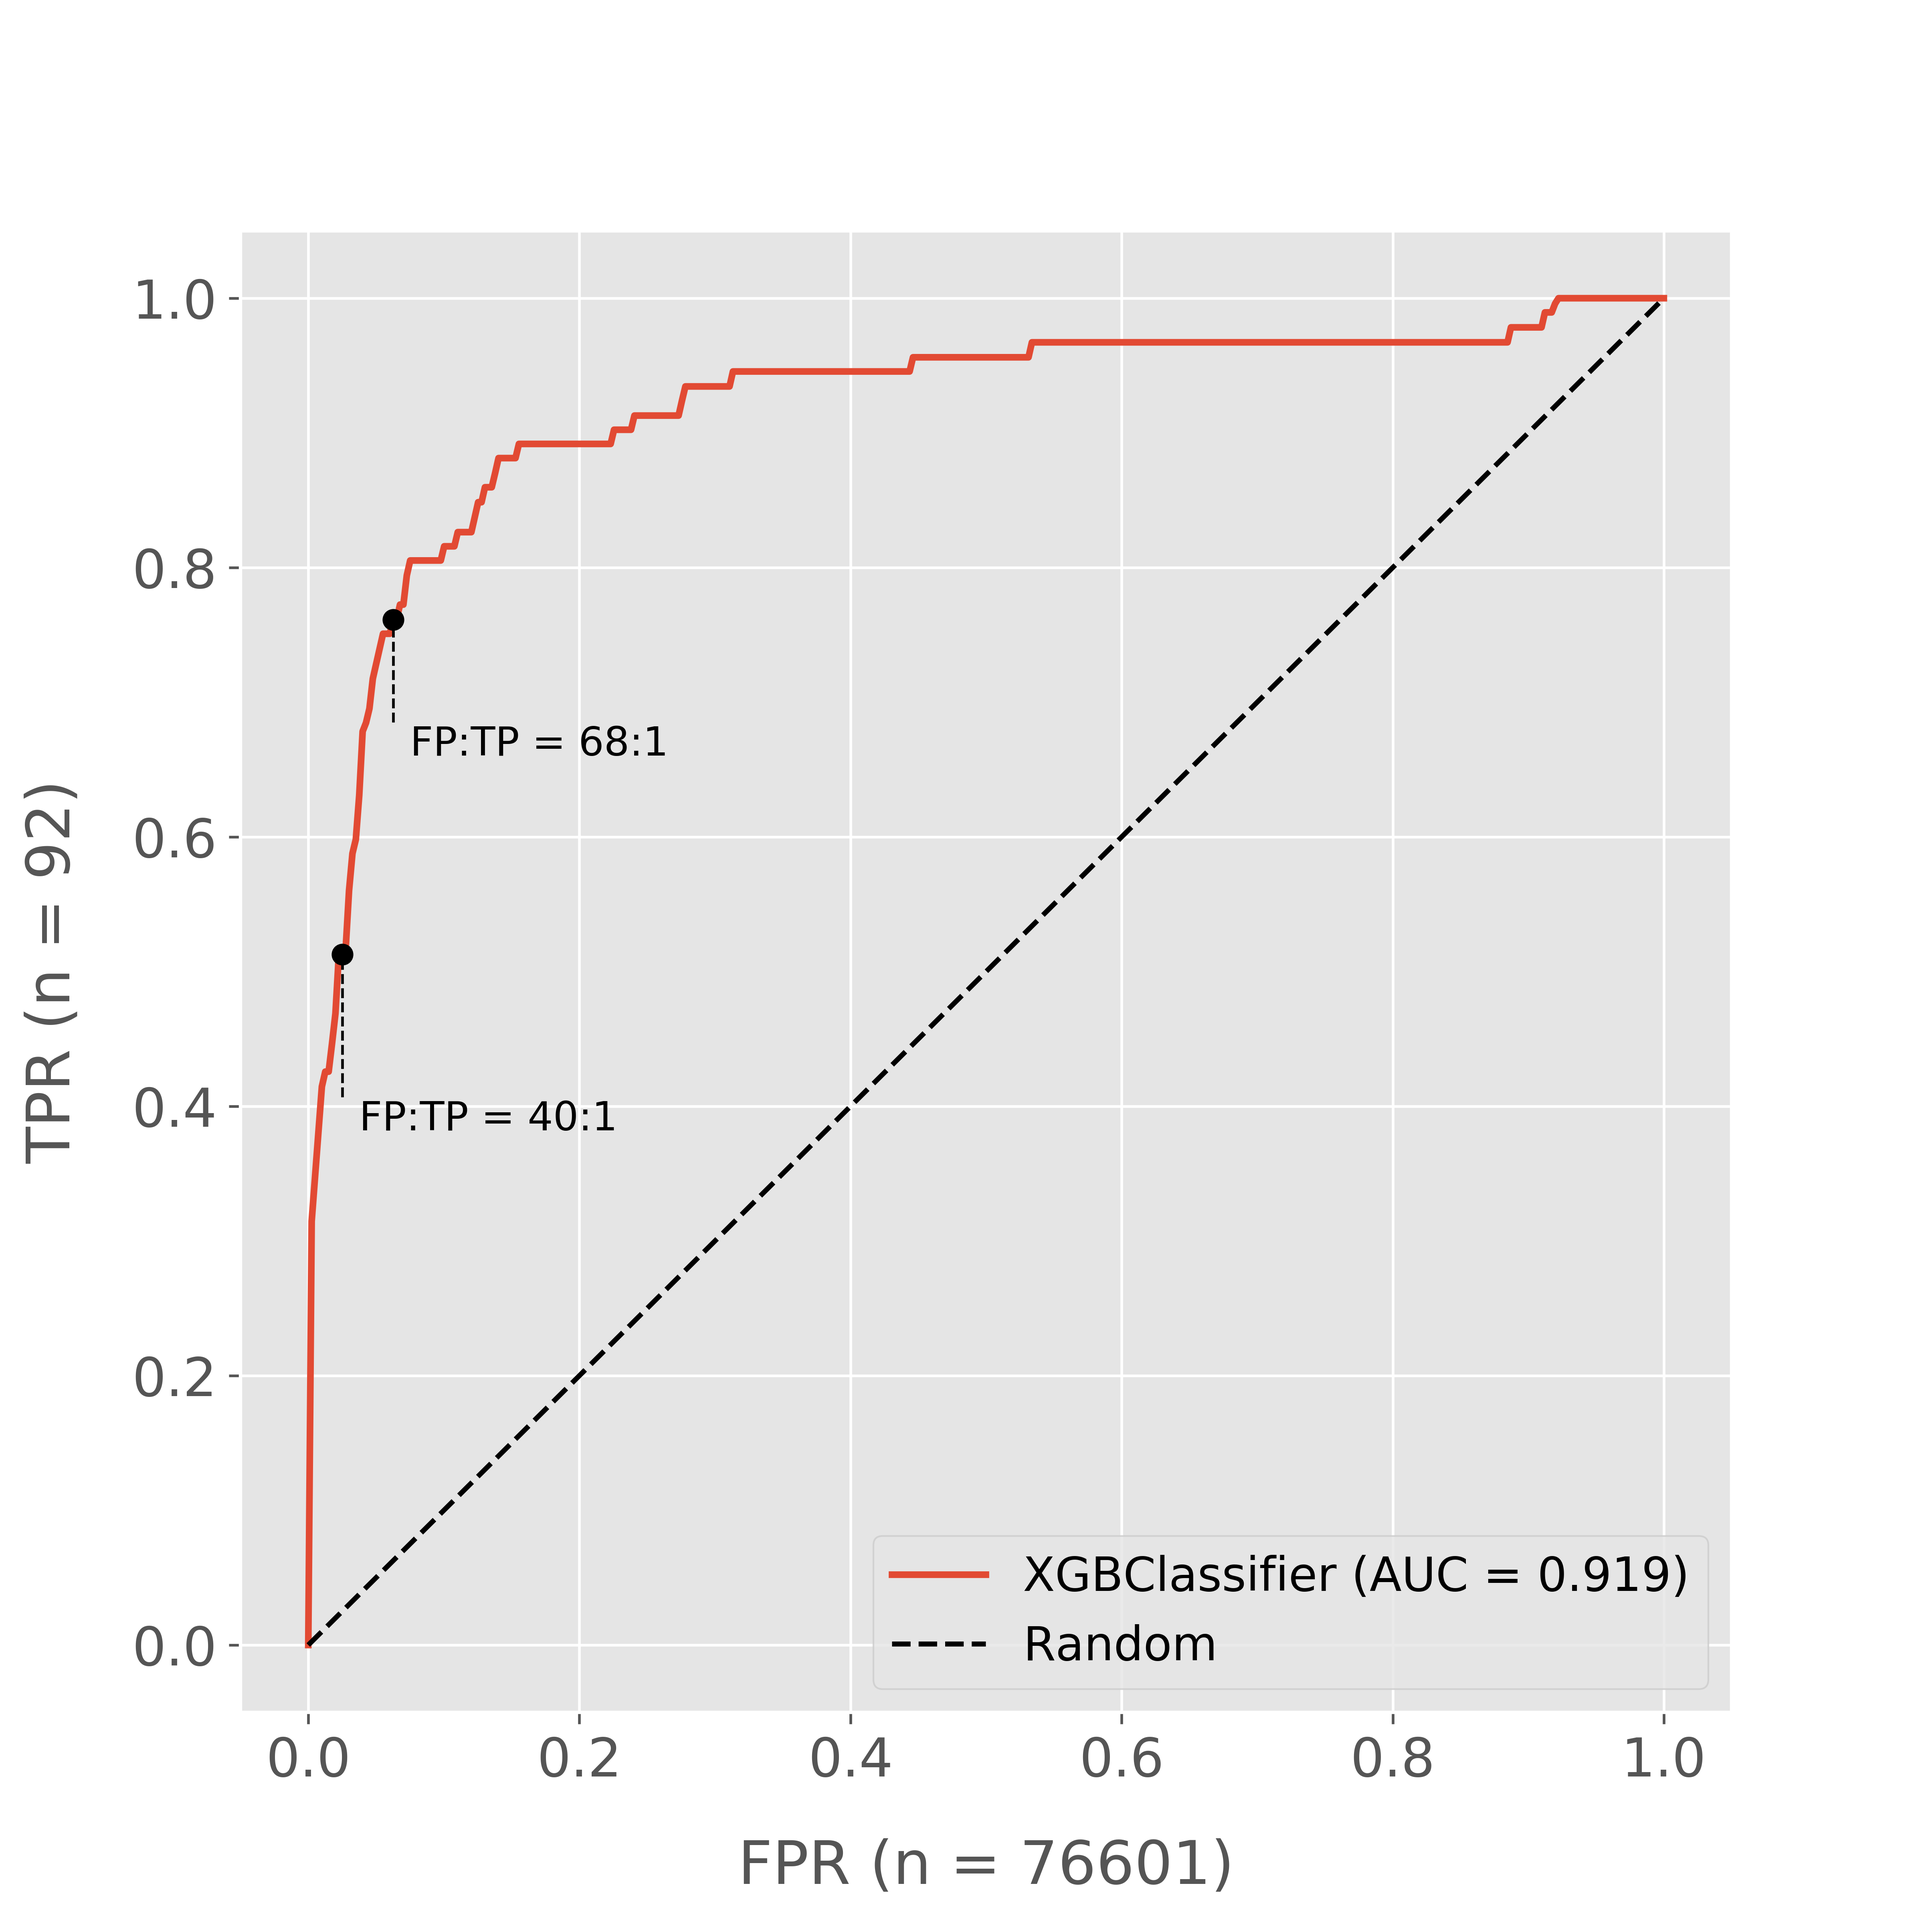
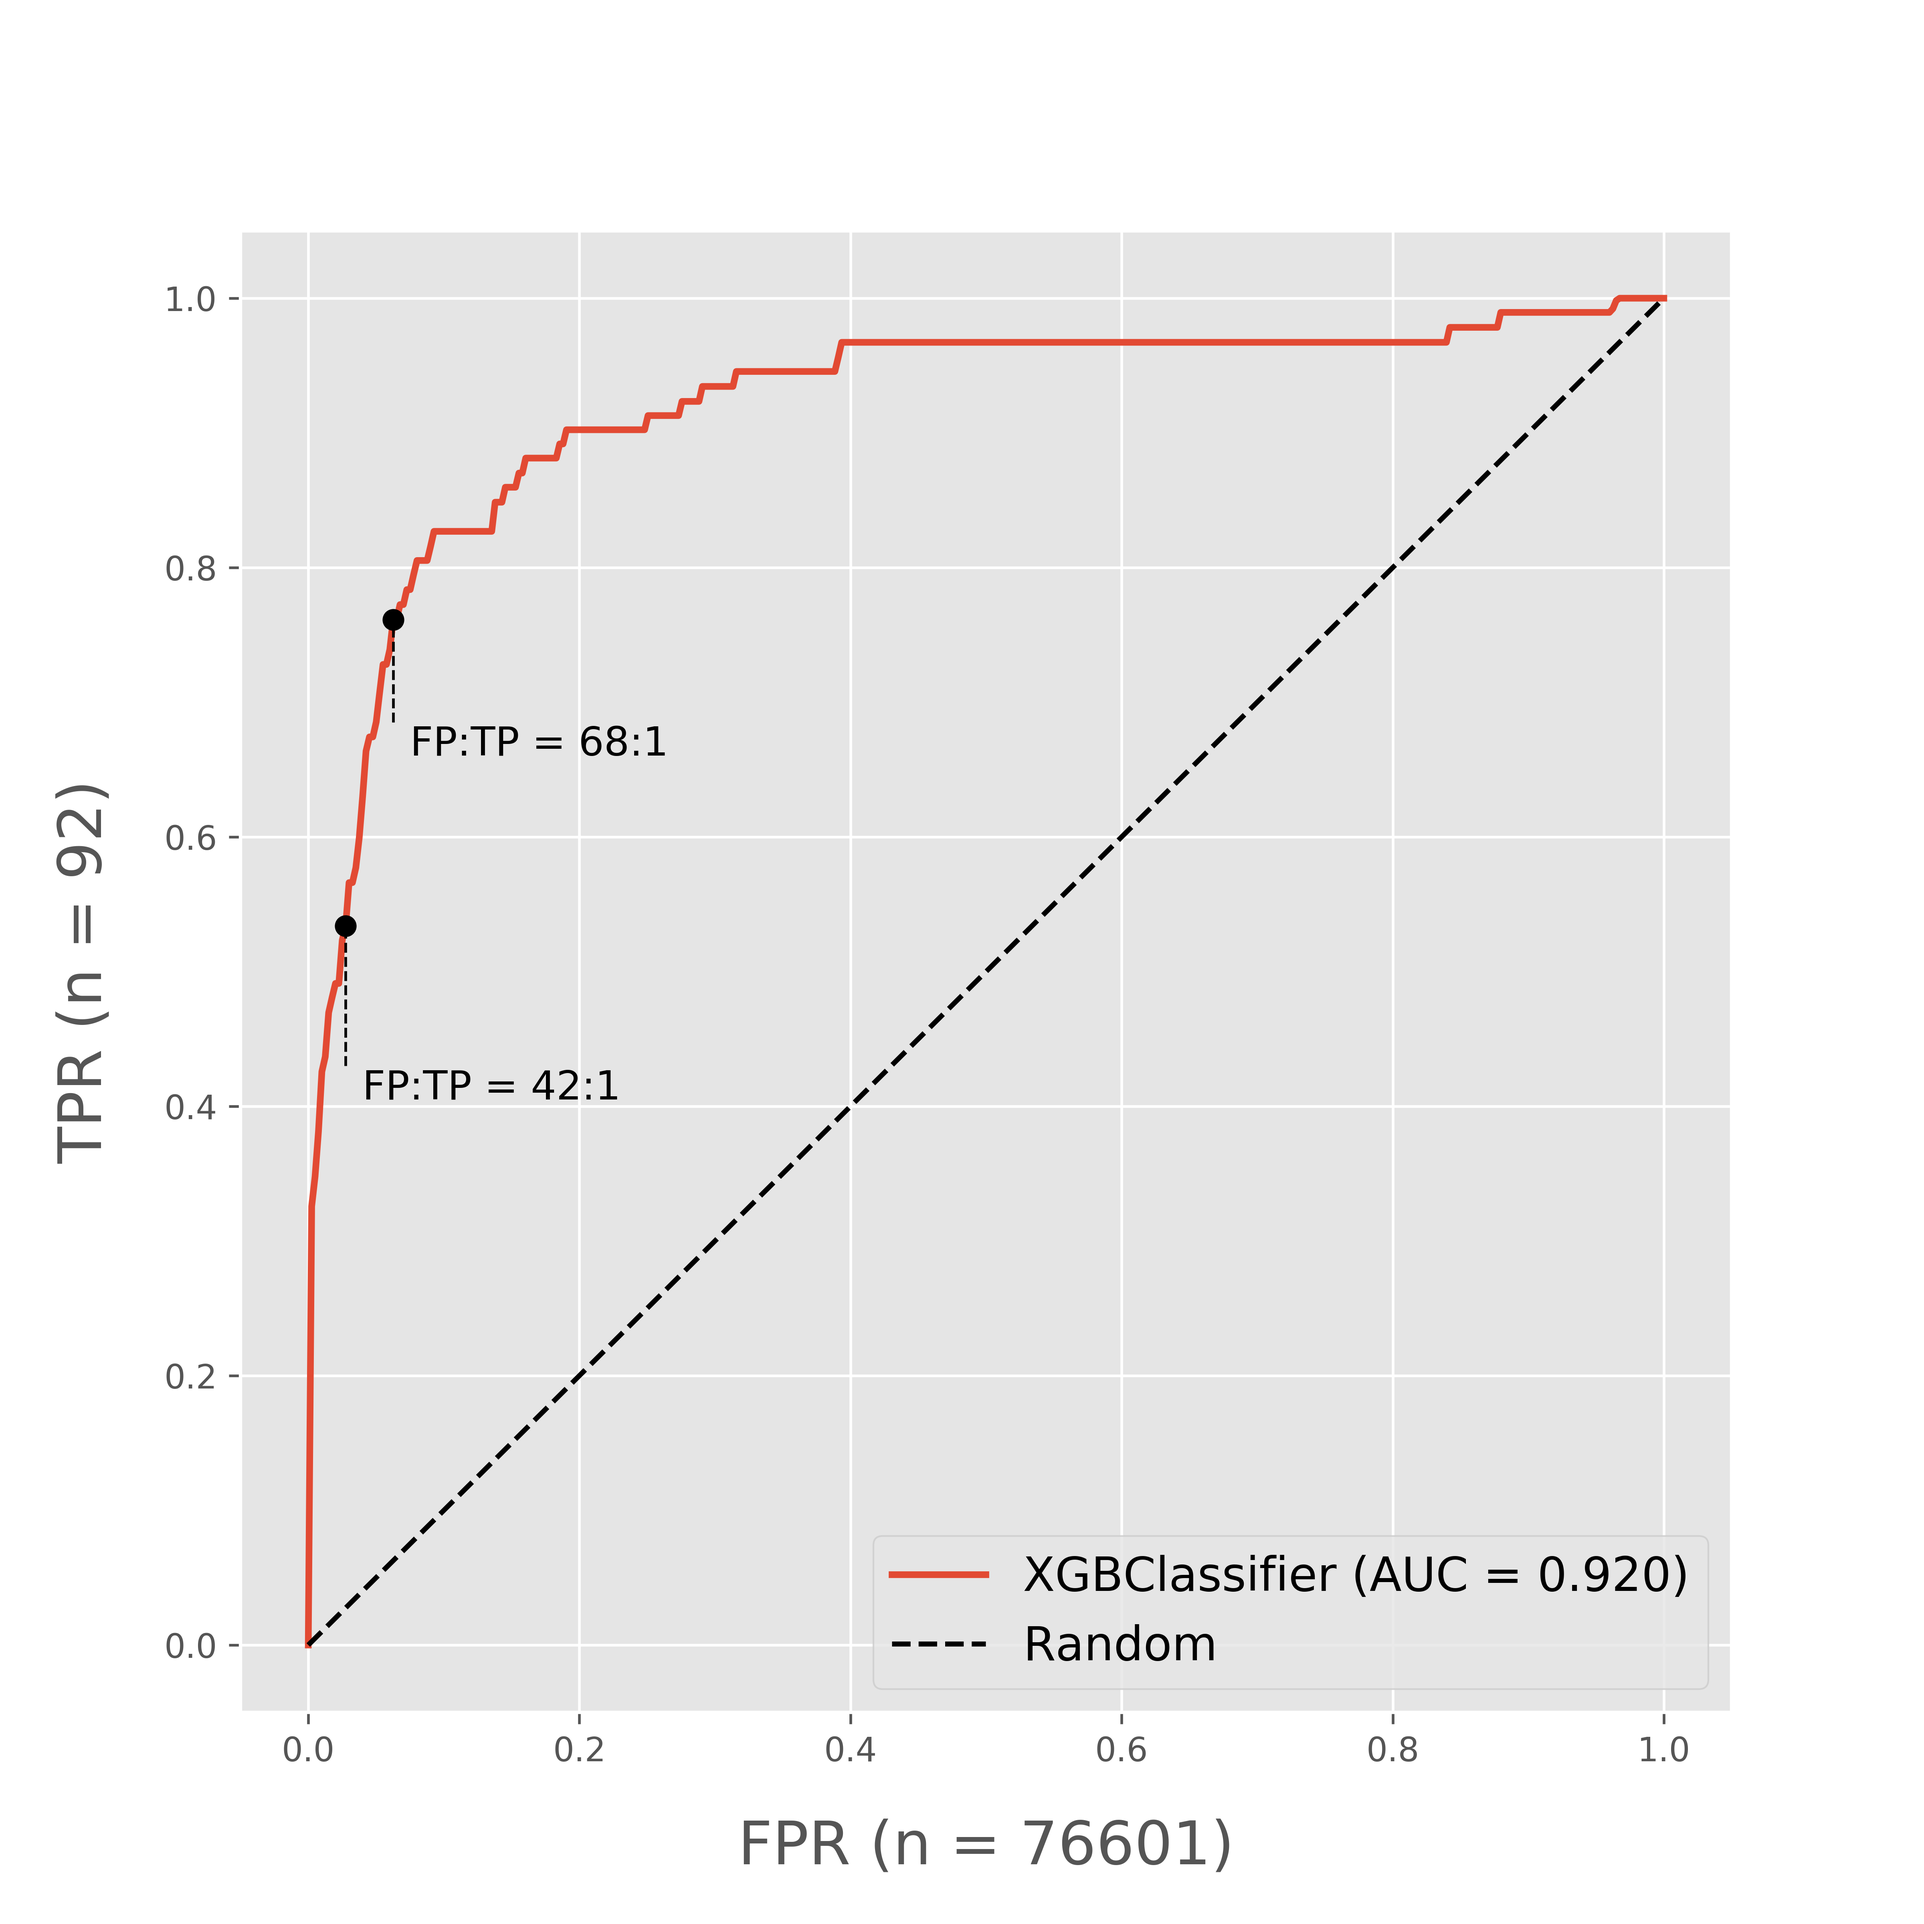
roc_xg_benchmarked

diff --git a/model/compare_models.py b/model/compare_models.py
@@ -26,8 +26,8 @@ if __name__ == '__main__':
     blag = BlaggingClassifier(base_estimator=dtc, n_estimators=200, random_state=42, n_jobs=-1)
     xg2 = XGBClassifier(scale_pos_weight=10, max_delta_step=1, colsample_bytree=1, colsample_bylevel=.5, seed=42)
     blag_boost = BlaggingClassifier(base_estimator=xg2, random_state=42, n_jobs=-1)
-    classifiers = [xg]
+    classifiers = [xg2]
     balancing = []
     # profit_avg.plot_avg_profits(blag, filename, revenue=50, cost=1)
-    profit_avg.plot_avg_profits(xg, filename, revenue=12.50, cost=.25)
-    # rc2.plot_ROC_curve(classifiers, X, y, balancing=balancing, benchmarks=(.4, .7), save_path='../visualize/roc_xg_benchmarked.png')
+    # profit_avg.plot_avg_profits(xg, filename, revenue=12.50, cost=.25)
+    rc2.plot_ROC_curve(classifiers, X, y, balancing=balancing, benchmarks=(.4, .7), save_path='../visualize/roc_xg_benchmarked.png')

diff --git a/README.md b/README.md
@@ -83,12 +83,12 @@ Note that performance is nearly identical up to ~75% recall.  Let's analyze the 
 #### True Positive to False Positive ratios: XGBoost
 ![Benchmarked ROC curve: XGBoost](visualize/roc_xg_benchmarked.png)
 
-I've plotted points corresponding to two False-Positive/True-Positive ratios above, on an ROC curve for the XGBoost model.  Note that a 42:1 ratio gets us better than 50% recall, but we must accept a significantly higher ratio (68:1) to surpass 75% recall.  Clearly, the model is much better than random, and either of those TP:FP benchmarks represents a model threshold that discards over 90% of the negative class.  However, the ultimate proportion of addresses identified will depend on a different process, and if that process is manual (say, comparing photos), its cost will be crucial in determining what false-to-true-positive ratio we can accept.
+I've plotted points corresponding to two False-Positive/True-Positive ratios above, on an ROC curve for the XGBoost model.  Note that a 42:1 ratio gets us better than 50% recall, but we must accept a significantly higher ratio (68:1) to surpass 75% recall.  Clearly, the model is much better than random, and either of those FP:TP benchmarks is a 90%+ improvement over our original ratio of 833:1.  However, the ultimate proportion of addresses identified will also depend on a secondary process, and if that process is manual (say, comparing photos), its cost will be crucial in determining what false-to-true-positive ratio we can accept.
 
 #### Profit curve: XGBoost
 ![Profit curve:](visualize/profit3.png)
 
-Profit curve for a scenario where AirDNA sells one $50 market report for every four properties I correctly identify, for an average revenue of $12.50 per property.  Assume that we pay someone $15/hour to compare photos of candidate properties to photos from the listing and find the correct match: allowing one minute to review each candidate, our cost is $0.25 per review.  We can construct similar curves for different scenarios to find the best decision threshold for the model in each context.
+Profit curve for a scenario where AirDNA sells one $50 market report for every four properties I correctly identify, for an average revenue of $12.50 per property.  Assume that we pay someone $15/hour to compare photos of candidate properties to photos from the listing and find the correct match: allowing one minute to review each candidate, our cost is $0.25 per review.  We can construct similar curves for different scenarios to find the best classification threshold in each context.
 
 Notes:
 
